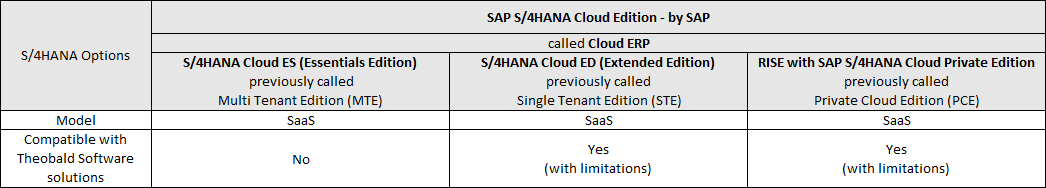
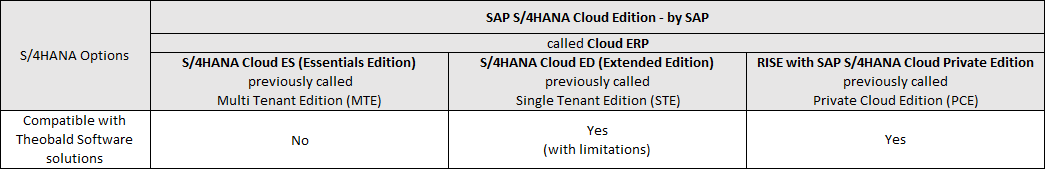
Update SAP S4HANA

diff --git a/content/_sap/supported-sap-and-hana-versions-by-theobald-software-products.md b/content/_sap/supported-sap-and-hana-versions-by-theobald-software-products.md
@@ -1,54 +1,26 @@
 ---
 layout: page
-title: SAP Versions supported by Theobald Software Products
+title: SAP S/4HANA Versions supported by Theobald Software Products
 description: Supported SAP and HANA Versions by Theobald Software Products
 permalink: /:collection/:path
 weight: 9
 ---
 
-This article gives an overview of all SAP systems that are supported by Theobald products.<br> 
-The underlying type of the database is irrelevant.
+This article gives an overview of all SAP S/4HANA systems that are supported by Theobald products.<br> 
 
-### Supported SAP ERP Systems
-
-- SAP R/3 Enterprise Edition 4.6C
-- SAP R/3 Enterprise Edition 4.6F
-- SAP R/3 Enterprise Edition 4.7
-- SAP ERP Central Component (ECC) 5.0
-- SAP ERP Central Component (ECC) 6.0
-- SAP Business All-in-One
-- SAP ERP Central Component (ECC) 6.0 with enhancement package 1-8
-
-### Supported SAP BW Systems
-
-- SAP BW 3.1
-- SAP BW 3.1C
-- SAP BW 3.3
-- SAP BW 3.5
-- SAP BI 7.0
-- SAP BW 7.01
-- SAP BW 7.02
-- SAP BW 7.3
-- SAP BW 7.31
-- SAP BW 7.4
-- SAP BW 7.5
-
-### Supported SAP HANA Systems
-
-- SAP BW powered by SAP HANA
-- SAP BW/4HANA
-
-#### SAP S/4HANA
+### SAP S/4HANA Cloud Systems
 The following table lists all available SAP S/4HANA cloud systems and their compatibility with Theobald products:<br>
 ![Available-S/4HANA-Systems1](/img/contents/SAP-systems-cloud-overview.png){:class="img-responsive"}
-
-The following table lists all available SAP S/4HANA on premise systems and their compatibility with Theobald products:<br>
-![Available-S/4HANA-Systems2](/img/contents/SAP-systems-premise-overview.png){:class="img-responsive"}
 
 #### Limited Support for SAP S/4HANA Cloud Extended Edition
 
 The installation of Custom Function Modules on SAP S/4HANA Cloud Extended Edition is not yet supported.
 Therefore the functionality of [Table](https://help.theobald-software.com/en/xtract-universal/sap-customizing/custom-function-module-for-table-extraction) and [Report](https://help.theobald-software.com/en/xtract-universal/sap-customizing/install-report-custom-function-module) extractions is limited for SAP S/4HANA Cloud Extended Edition.
+
+#### SAP S/4HANA On Premise Systems
+
+The following table lists all available SAP S/4HANA on premise systems and their compatibility with Theobald products:<br>
+![Available-S/4HANA-Systems2](/img/contents/SAP-systems-premise-overview.png){:class="img-responsive"}
 
 ******
 
